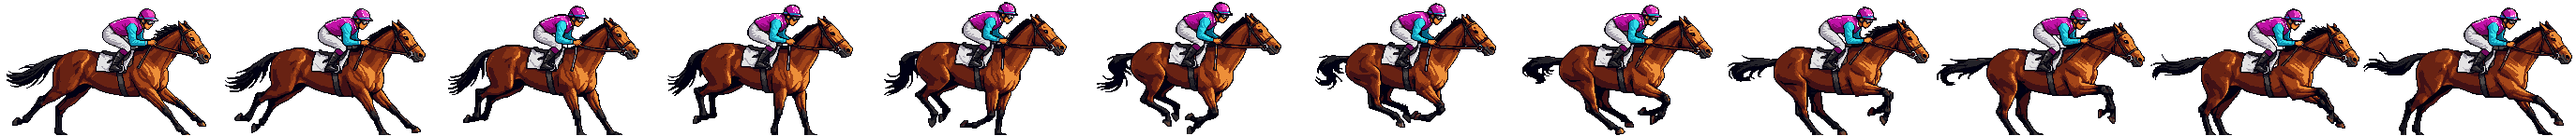
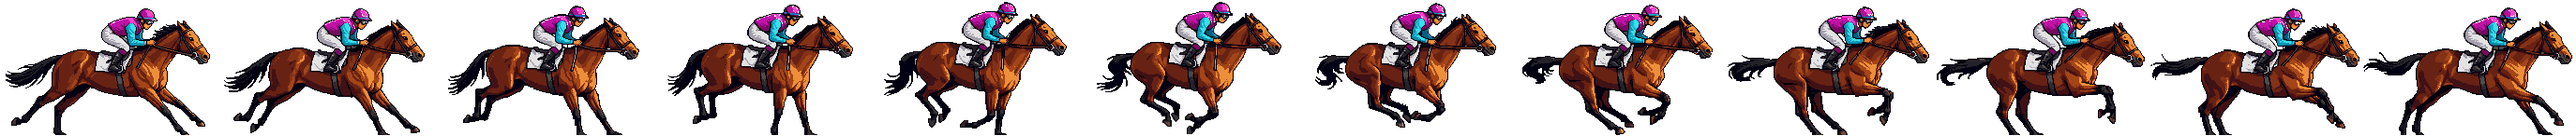
WIP: agents in progress
Claude-Session: https://claude.ai/code/session_01McmGWjWNQWz9prva7Bfp7H

Changed region(s): [[0.0, 0.1096, 0.1856, 0.9315]]

diff --git a/apps/web/src/components/home/HomeView.tsx b/apps/web/src/components/home/HomeView.tsx
@@ -7,14 +7,13 @@ import type { RaceSummary } from "@/server/races";
 import { horseSummary, recommendIndex } from "@/lib/aptitude";
 import { useNow } from "@/lib/clock";
 import { STYLE_LABEL, SURFACE_LABEL, formatClock, formatCountdown, formatCredits, formatDistance, ordinal } from "@/lib/format";
-import { horseRecord, pendingRaces, type PendingRace, type PlayerState, usePlayerState } from "@/lib/player";
+import { pendingRaces, recentlyRun, type PendingRace, type PlayerState, usePlayerState } from "@/lib/player";
 import { usePlayerHorses } from "@/lib/useStable";
 import { Countdown } from "../Countdown";
 import { HorsePortrait } from "../HorsePortrait";
 import { RaceBoard, RecentRaceRow } from "../RaceList";
 import { raceMetaLine } from "../RaceMeta";
 import { useEntry } from "../entry/EntryProvider";
-import { PLAN_HINT } from "../entry/EntryForm";
 import { PixelIcon, type IconName } from "../icons";
 import { SceneBackdrop } from "../pixel/SceneBackdrop";
 import { ActionBar } from "../ui/ActionBar";
@@ -142,40 +141,34 @@ function Yard({ state, next, live, recent }: ClubProps & { state: PlayerState })
   // Your own race: running or about to start -> watch it; finished but unseen -> see result (no spoilers).
   const upcomingMine = now === null ? undefined : pending.find((p) => p.postTimeMs > now - 90_000);
   const unseen = pending.filter((p) => p !== upcomingMine);
-  const rec = useMemo(() => (horses ? recommendIndex(horses, (i) => horseRecord(state, i).starts) : 0), [horses, state]);
-  const history = state.progress.history.slice(0, 3);
+  const exclude = useMemo(() => recentlyRun(state, now ?? 0), [state, now]);
+  const rec = useMemo(() => (horses ? recommendIndex(horses, exclude) : 0), [horses, exclude]);
 
   return (
     <div className="grid gap-8">
       <div>
         <p className="eyebrow">{state.player.stableName}</p>
-        <h1 className="t-display-xl">{history.length === 0 ? "Your first race" : "Up next"}</h1>
+        <h1 className="t-display-xl">Up next</h1>
       </div>
-
-      {unseen.length > 0 && !upcomingMine && (
-        <p className="surface-2 flex flex-wrap items-center gap-2 px-3 py-2 text-sm" role="status">
-          <PixelIcon name="stopwatch" size={16} />
-          <span>
-            While you were away: <strong>{unseen.length === 1 ? "1 result is ready" : `${unseen.length} results are ready`}</strong>. No spoilers until you watch.
-          </span>
-        </p>
-      )}
 
       {upcomingMine ? (
         <YourRace race={upcomingMine} now={now ?? 0} />
       ) : unseen[0] ? (
-        <ResultReady race={unseen[0]} />
+        <ResultReady race={unseen[0]} count={unseen.length} />
       ) : horses ? (
-        <ReadyHorse horse={horses[rec]!} index={rec} />
+        <QuickPickHero horse={horses[rec]!} index={rec} firstRace={state.progress.history.length === 0} />
       ) : (
         <div className="frame-hero h-64 opacity-60" aria-busy />
       )}
+
+      <YourRaces state={state} now={now} />
 
       <section aria-labelledby="pulse-h">
         <SectionHeader id="pulse-h" title="Your horses" href="/stable" linkLabel="Stable" />
         <ul className="-mx-4 flex gap-2 overflow-x-auto px-4 pb-1 md:mx-0 md:grid md:grid-cols-6 md:px-0" data-testid="stable-pulse">
           {(horses ?? Array.from({ length: 6 }, () => null)).map((h, i) => {
             const racing = pending.some((p) => p.horseIndex === i && now !== null && p.postTimeMs > now - 90_000);
+            const rested = !racing && exclude.includes(i);
             return (
               <li key={h?.id ?? i} className="shrink-0 md:shrink">
                 {h ? (
@@ -184,41 +177,19 @@ function Yard({ state, next, live, recent }: ClubProps & { state: PlayerState })
                     <span className="min-w-0">
                       <span className="block text-sm font-extrabold leading-tight">{h.name}</span>
                       <span className="flex items-center gap-1.5 text-xs font-bold text-cream-dim">
-                        <span aria-hidden className={`h-2 w-2 ${racing ? "bg-brass" : "bg-positive"}`} />
-                        {racing ? "Racing" : "Ready"}
+                        <span aria-hidden className={`h-2 w-2 ${racing ? "bg-brass" : rested ? "bg-sage" : "bg-positive"}`} />
+                        {racing ? "Racing" : rested ? "Ran recently" : "Fresh"}
                       </span>
                     </span>
                   </Link>
                 ) : (
-                  <span className="surface block h-[3.75rem] w-36 opacity-60 md:w-auto" />
+                  <span className="surface block h-[3.75rem] w-44 opacity-60 md:w-auto" />
                 )}
               </li>
             );
           })}
         </ul>
       </section>
-
-      {history.length > 0 && (
-        <section aria-labelledby="runs-h">
-          <SectionHeader id="runs-h" title="Your latest runs" />
-          <ul className="surface rows">
-            {history.map((h) => (
-              <li key={h.raceId}>
-                <Link href={`/race/${h.raceId}`} className="row-link group gap-3 px-3 py-2">
-                  <span className="num w-10 shrink-0 text-lg text-cream">{ordinal(h.position)}</span>
-                  <span className="min-w-0 flex-1">
-                    <span className="block font-extrabold group-hover:underline">{h.horseName}</span>
-                    <span className="t-meta block truncate">
-                      {h.raceName} · {h.fieldSize} ran
-                    </span>
-                  </span>
-                  <span className={`num shrink-0 ${h.prize > 0 ? "text-positive" : "text-sage"}`}>{h.prize > 0 ? `+${formatCredits(h.prize)}` : "–"}</span>
-                </Link>
-              </li>
-            ))}
-          </ul>
-        </section>
-      )}
 
       <section aria-labelledby="club-h" className="grid gap-4 lg:grid-cols-2">
         <div>
@@ -235,7 +206,54 @@ function Yard({ state, next, live, recent }: ClubProps & { state: PlayerState })
   );
 }
 
-function ReadyHorse({ horse, index }: { horse: Horse; index: number }) {
+/** Your races inbox: unseen races first (live / result ready, never the result), then recent runs. */
+function YourRaces({ state, now }: { state: PlayerState; now: number | null }) {
+  const pending = pendingRaces(state);
+  const history = state.progress.history.slice(0, 5);
+  if (pending.length === 0 && history.length === 0) return null;
+  return (
+    <section aria-labelledby="inbox-h">
+      <SectionHeader id="inbox-h" title="Your races" />
+      <ul className="surface rows" data-testid="your-races">
+        {pending.map((p) => {
+          const startsIn = now === null ? 0 : p.postTimeMs - now;
+          const status = startsIn > 0 ? `Off in ${formatCountdown(startsIn)}` : startsIn > -90_000 ? "Live" : "▶ Result ready";
+          return (
+            <li key={p.raceId}>
+              <Link href={`/race/${p.raceId}`} className="row-link group gap-3 px-3 py-2" data-testid="inbox-race">
+                <span className={`chip shrink-0 ${status === "Live" ? "chip-live" : "text-cream"}`}>
+                  {status === "Live" && <span className="live-dot !h-1.5 !w-1.5" />}
+                  {status}
+                </span>
+                <span className="min-w-0 flex-1">
+                  <span className="block font-extrabold group-hover:underline">{p.horseName}</span>
+                  <span className="t-meta block">Quick race · {formatClock(p.postTimeMs)} · result hidden until you watch</span>
+                </span>
+              </Link>
+            </li>
+          );
+        })}
+        {history.map((h) => (
+          <li key={h.raceId}>
+            <Link href={`/race/${h.raceId}`} className="row-link group gap-3 px-3 py-2">
+              <span className="num w-10 shrink-0 text-lg text-cream">{ordinal(h.position)}</span>
+              <span className="min-w-0 flex-1">
+                <span className="block font-extrabold group-hover:underline">{h.horseName}</span>
+                <span className="t-meta block truncate">
+                  {h.raceName} · {h.fieldSize} ran
+                </span>
+              </span>
+              <span className={`num shrink-0 ${h.prize > 0 ? "text-positive" : "text-sage"}`}>{h.prize > 0 ? `+${formatCredits(h.prize)}` : "–"}</span>
+            </Link>
+          </li>
+        ))}
+      </ul>
+    </section>
+  );
+}
+
+/** The default next action: Quick Pick enters your best-suited fresh horse in the next race. */
+function QuickPickHero({ horse, index, firstRace }: { horse: Horse; index: number; firstRace: boolean }) {
   const entry = useEntry();
   return (
     <section className="frame-hero p-3 sm:p-4" aria-labelledby="ready-h" data-testid="up-next">
@@ -249,30 +267,28 @@ function ReadyHorse({ horse, index }: { horse: Horse; index: number }) {
               <HorsePortrait appearance={horse.appearance} scale={1} />
             </div>
             <div className="min-w-0">
-              <p className="flex items-center gap-1.5 text-sm font-extrabold text-positive">
-                <span aria-hidden>✓</span> Ready to race
-              </p>
+              <p className="text-sm font-extrabold text-cream-dim">{firstRace ? "Your first race · likely pick" : "Quick Pick · likely pick"}</p>
               <h2 id="ready-h" className="t-display-l">
                 {horse.name}
               </h2>
               <p className="t-meta">
-                {STYLE_LABEL[horse.style]} · best {formatDistance(horse.preferredDistanceM)} on {SURFACE_LABEL[horse.preferredSurface].toLowerCase()}
+                <span className="text-positive">✓ Fresh</span> · {STYLE_LABEL[horse.style]} · best {formatDistance(horse.preferredDistanceM)} on{" "}
+                {SURFACE_LABEL[horse.preferredSurface].toLowerCase()}
               </p>
             </div>
           </div>
-          <p className="mt-3 max-w-prose text-cream-dim">{horseSummary(horse)}</p>
-          <p className="mt-2 text-sm text-cream-dim">
-            <strong className="text-cream">Natural plan, {STYLE_LABEL[horse.style].toLowerCase()}:</strong> {PLAN_HINT[horse.style]}
+          <p className="mt-3 max-w-prose text-cream-dim">
+            One tap enters your best-suited fresh horse in the next race, ridden to its natural style. {horseSummary(horse)}
           </p>
           <div className="mt-4 flex flex-wrap items-center gap-3">
             <ActionBar>
-              <button type="button" className="btn btn-brass btn-lg" onClick={() => entry.open(index)} data-testid="race-now">
-                <PixelIcon name="flag" size={32} className="-my-2" /> Race {horse.name}
+              <button type="button" className="btn btn-brass btn-lg" onClick={entry.quickPick} data-testid="quick-pick">
+                <PixelIcon name="flag" size={32} className="-my-2" /> Enter next race
               </button>
             </ActionBar>
-            <Link href="/stable" className="btn-ghost inline-flex min-h-11 items-center font-bold">
-              Choose another horse
-            </Link>
+            <button type="button" className="btn-ghost inline-flex min-h-11 items-center font-bold" onClick={() => entry.open(index, { picker: true })}>
+              Choose horse &amp; plan
+            </button>
           </div>
         </div>
       </div>
@@ -298,10 +314,12 @@ function YourRace({ race, now }: { race: PendingRace; now: number }) {
   );
 }
 
-function ResultReady({ race }: { race: PendingRace }) {
+function ResultReady({ race, count }: { race: PendingRace; count: number }) {
   return (
     <section className="frame-hero p-4" aria-labelledby="ready-result-h" data-testid="up-next">
-      <p className="text-sm font-extrabold text-cream-dim">▶ Result ready</p>
+      <p className="text-sm font-extrabold text-cream-dim">
+        ▶ {count > 1 ? `While you were away: ${count} results are ready` : "Result ready"}
+      </p>
       <h2 id="ready-result-h" className="t-display-l">
         {race.horseName}&rsquo;s race
       </h2>

diff --git a/art-src/process_gallop.py b/art-src/process_gallop.py
@@ -120,6 +120,15 @@ def classify(img):
                 np.arange(W)[None, :] >= np.percentile(xs, 60)
             )
         role[capmask] = "cap"
+        # stray magenta-ish blobs away from the jockey (crimson shading on the horse's neck/chest)
+        k_ = H / 104
+        by0, by1, bx0, bx1 = body[1], body[2], body[3], body[4]
+        pad = int(round(3 * k_))
+        for c in comps:
+            if c[5] == body[5] or capmask[lab == c[5]].any():
+                continue
+            if c[1] > by1 + pad or c[3] > bx1 + pad or c[4] < bx0 - pad or c[2] < by0 - pad:
+                role[lab == c[5]] = "coat"
         cy, cx = np.nonzero(capmask)
         # Skin: light warm pixels just below/right of the cap (face, hands are covered by gloves).
         k = H / 104  # boxes were tuned on the 104 px tall low-res canvas
